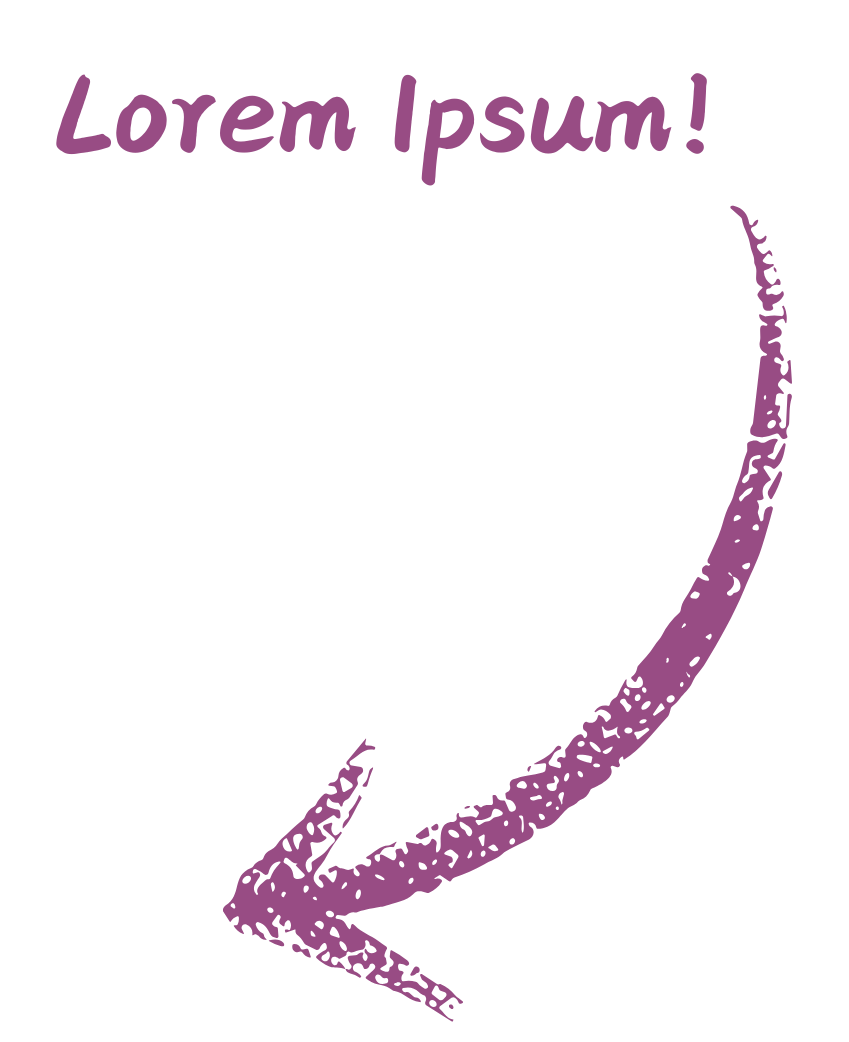
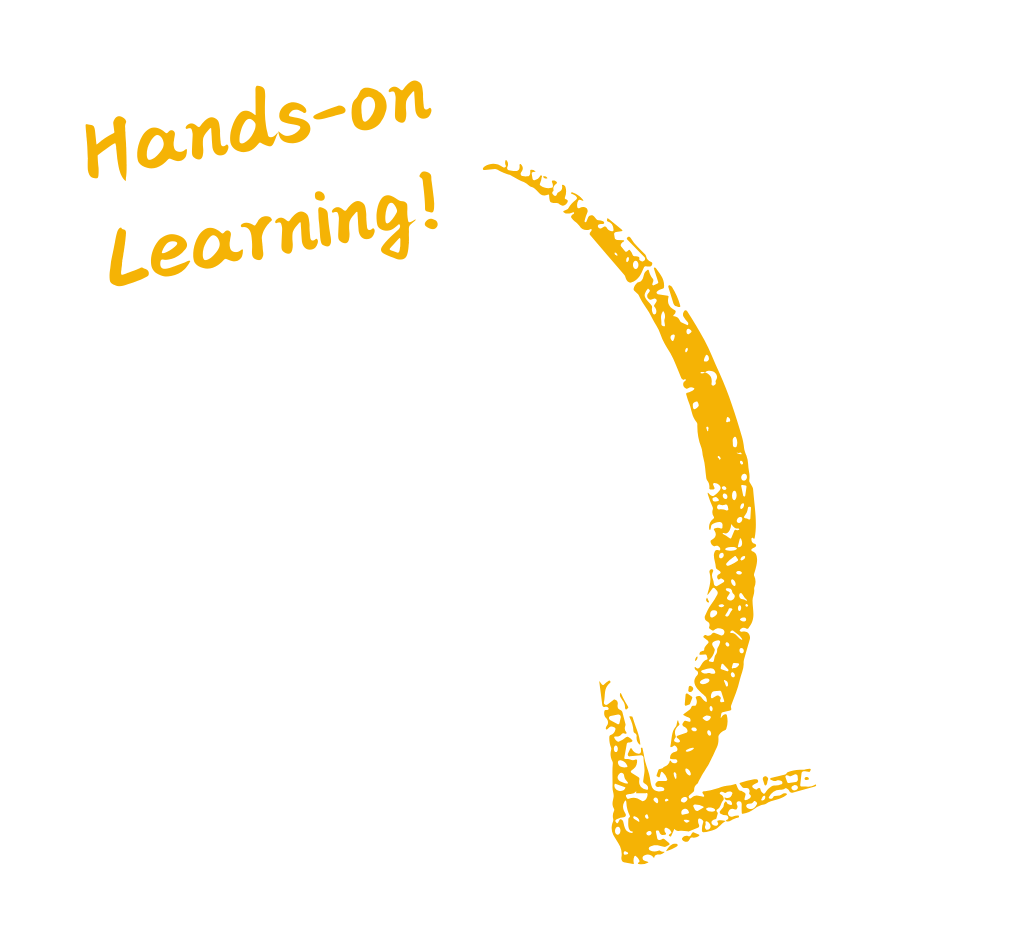
responsiveness updates, removed all placeholder

Changed region(s): [[0.245, 0.0625, 0.9494, 0.9688], [0.0612, 0.0625, 0.4287, 0.1875], [0.0919, 0.1875, 0.4287, 0.3125]]

diff --git a/src/pages/AboutPage.jsx b/src/pages/AboutPage.jsx
@@ -8,8 +8,8 @@ import aboutCard1 from "../assets/images/about/about1.png";
 import aboutCard2 from "../assets/images/about/about2.png";
 
 import aboutCard3 from "../assets/images/about/aboutCard1.jpg";
-// import aboutCard4 from "../assets/images/about/aboutCard2.jpg";
-// import aboutCard5 from "../assets/images/about/aboutCard3.jpg";
+import aboutCard5 from "../assets/images/about/aboutCard2.jpg";
+import aboutCard4 from "../assets/images/about/aboutCard3.jpg";
 
 const AboutCard = ({
   url,
@@ -78,10 +78,10 @@ const AboutPage = ({ togglePopUpPage, setPopUpContent }) => {
           />
         </div>
       </div>
-      <div className="mt-20 text-center font-introRust flex flex-col items-center">
+      <div className="mt-20 text-center font-introRust flex flex-col items-center ">
         <h1
-          className="text-5xl sm:text-7xl lg:text-7xl font-extrabold text-plum"
-          data-aos="fade-right"
+          className="text-5xl sm:text-7xl lg:text-7xl font-extrabold text-plum animate-pulse"
+          data-aos="flip-right"
           data-aos-once="true"
         >
           JCSF CENTER INTERNATIONAL
@@ -122,12 +122,14 @@ const AboutPage = ({ togglePopUpPage, setPopUpContent }) => {
             delay="200"
             color="xanthous"
             label="Innovative Learning Environments"
+            backgroundImage={aboutCard5}
             text="Classrooms designed to inspire creativity, equipped with interactive tools and resources to enhance learning experiences."
           />
           <AboutCard
             delay="300"
             color="xanthous"
             label="Experienced Educators"
+            backgroundImage={aboutCard4}
             text="A team of qualified and passionate teachers committed to providing personalized attention and support to every child."
           />
         </div>

diff --git a/src/Home.jsx b/src/Home.jsx
@@ -19,7 +19,7 @@ import bg2 from "./assets/images/bg/bg2.png";
 import bg3 from "./assets/images/bg/bg3.png";
 
 import AOS from "aos";
-import "aos/dist/aos.css"; // You can also use <link> for styles
+import "aos/dist/aos.css";
 
 export default function App() {
   useEffect(() => {
@@ -109,7 +109,7 @@ export default function App() {
 
       <Element name="student">
         <div
-          className={`bg-oxfordBlue max-h-[2100px] ${template}`}
+          className={`bg-oxfordBlue min-h-[1000px] ${template}`}
           style={{
             backgroundImage: `url(${bg2})`,
           }}

diff --git a/src/pages/Footer.jsx b/src/pages/Footer.jsx
@@ -5,7 +5,7 @@ import Contacts from "../components/Contacts";
 
 const Footer = () => {
   return (
-    <div className="text-white mb-8 w-4/5">
+    <div className="text-white mb-8 w-4/5 max-w-[1000px]">
       <div className="w-full mt-20 flex flex-col md:flex-row justify-between">
         <div className="flex lg:w-[50%] flex-col md:flex-row md:gap-12">
           <div className="md:w-[50%] lg:w-[60%] flex flex-col justify-center align-middle items-center gap-4">

diff --git a/src/pages/StudentPage.jsx b/src/pages/StudentPage.jsx
@@ -13,7 +13,7 @@ import chalk4 from "../assets/images/chalkOverlay/chalk4.png";
 import chalk5 from "../assets/images/chalkOverlay/chalk5.png";
 import chalk6 from "../assets/images/chalkOverlay/chalk6.png";
 import chalk7 from "../assets/images/chalkOverlay/chalk7.png";
-import chalk8 from "../assets/images/chalkOverlay/chalk5.png";
+import chalk8 from "../assets/images/chalkOverlay/chalk8.png";
 
 const StudentPage = () => {
   return (

diff --git a/src/components/CampusImages.jsx b/src/components/CampusImages.jsx
@@ -49,7 +49,7 @@ function CampusImages() {
 
   return (
     <div
-      className="slider-container w-4/5"
+      className="slider-container w-4/5 max-w-[1280px]"
       data-aos="zoom-in"
       data-aos-once="true"
     >
